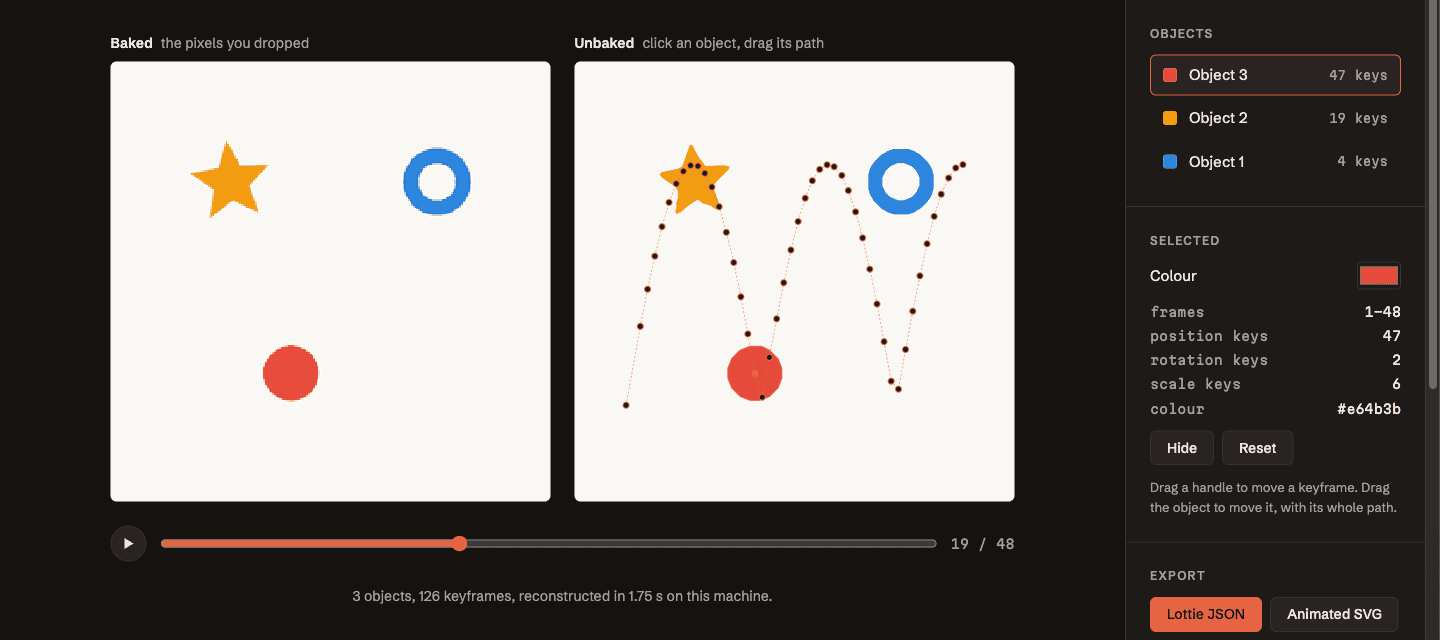
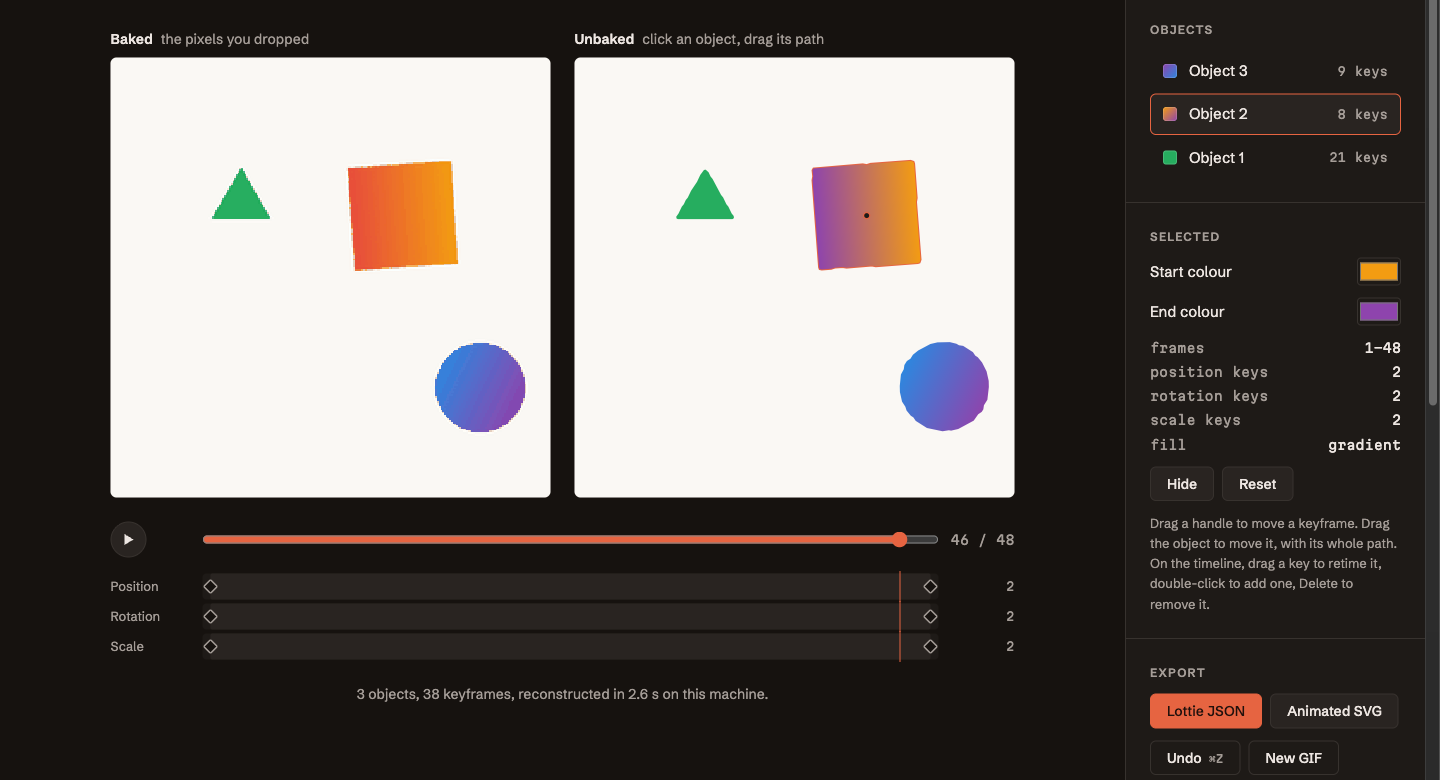
README showcase for v0.5: new demo, editor still and social preview; strict re-review of the 24 real animations; holdout results

diff --git a/README.md b/README.md
@@ -4,14 +4,14 @@
 
 **[▶ Try it in your browser](https://fredbourouliou.github.io/unbake/)** — Python, OpenCV and SciPy run locally through WebAssembly; nothing is uploaded.
 
-![Demo: a GIF is unbaked into objects; the ball is selected, its whole motion path is dragged and it is recoloured](docs/demo.gif)
+![Demo: a GIF is unbaked into objects; the ball's motion path is dragged, a key is retimed on the timeline and the ball recoloured; then a gradient square gets a new end colour, and a blob morphs into a star](docs/demo.gif)
 
 ## What works, what doesn't (yet)
 
 - **Works:** flat 2D motion graphics on a plain background. Rigid shapes that move, rotate and scale (with occlusions and dithered GIFs), and constant-width strokes that draw on, draw off or spin like a loader.
 - **Also:** two-colour linear gradient fills that move and turn with their shape (v0.4), and shapes whose outline morphs (v0.5, animated paths; mild morphs are still often taken for rigid shapes).
 - **Doesn't yet:** radial or multi-stop gradients, morphing shapes with holes, particles that merge, near-identical colours, photos or 3D.
-- On 24 real community animations (loaders, toggles, icons, logos), 18 come back faithful, 3 partial, 3 wrong. Details and every number below.
+- On 24 real community animations (loaders, toggles, icons, logos), 13 come back faithful, 7 partial, 4 wrong (strict visual review, v0.5). Details and every number below.
 
 ## Use it from Python
 
@@ -220,6 +220,16 @@ Mean IoU 0.72 (it penalises thin strokes and small objects heavily: several "fai
 | Fails | 6 | 3 (clock hands, infinite_rainbow gradient stroke, trail_loading particles) |
 
 Biggest gains: material_loader 0.33 → 0.86, play_button 0.59 → 0.94, colorline 0.34 → 0.85. A branched outline icon (medal) is now explicitly left to the rigid model (a stroke must be one simple path covering ≥ 75 % of its skeleton).
+
+**Stricter re-review with v0.5 (19 October 2026).** Every contact sheet was looked at again, frame by frame, counting as faithful only an animation where every object, colour and change of shape comes back:
+
+| Visual verdict | v0.5 | Animations |
+|---|---|---|
+| Faithful | **13** | bell, bouncing_ball, check_pop, colorline, gears, loading_semicircle, location_pin, material_loader, play_button, socar_logo, trail_loading, turbine, x_pop |
+| Partial | 7 | cube_loader (two cubes merge on the last frames), emoji_wink (the wink stays an open eye), medal (the glow disc and the final pose are missed), pagination (pale dots come back as rings), preloader (dots of four colours come back in two), simple_loader (a pale dot is missing), toggle_switch (the in-between icon of the transition) |
+| Fails | 4 | clock (the hands are drawn into the face), infinite_rainbow (multi-colour gradient stroke), retweet (the icon changes from arrows to a check: only the check comes back), switch_loop (the grey track and knob are lost) |
+
+The eight animations that look worse than the v0.2 table were re-run with v0.3.0: their output is the same. So this is not a regression; the v0.2 review was too lenient (it accepted partly wrong frames as faithful). Since v0.2, trail_loading moved from fails to faithful (v0.5 morphs) and turbine's disc comes back as one gradient (v0.4).
 
 ### Comparison
 
